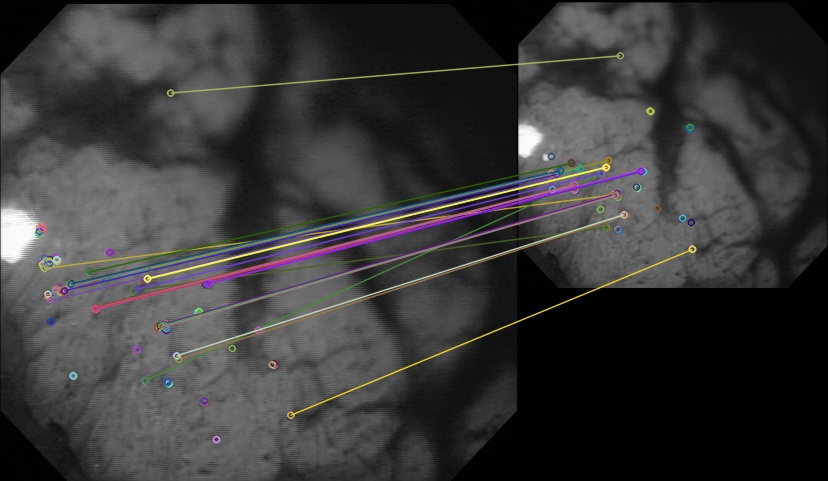
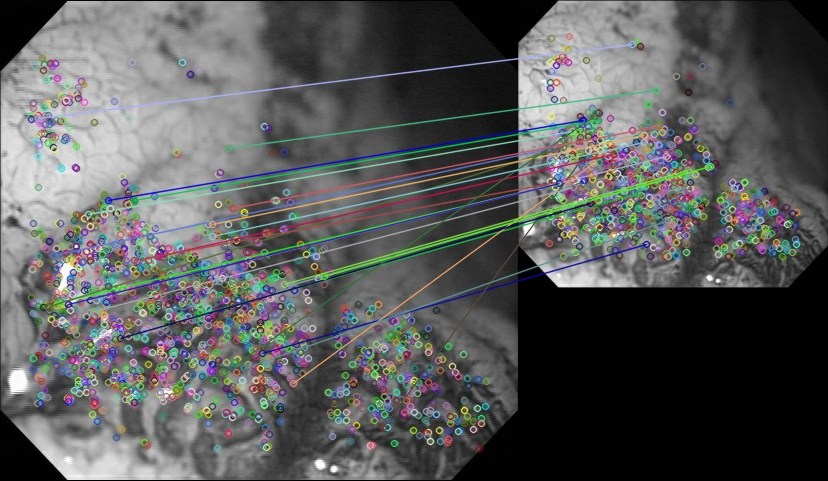
Update ORB
- ORB has rotational invariant
- ORB data remake with scaleFactor of 2

diff --git a/Data Preprocessing/orb.py b/Data Preprocessing/orb.py
@@ -112,17 +112,17 @@ if __name__ == '__main__':
     #             target_path=opt.target_sift_json_test_file,
     #             nfeatures = 1000)
 
-    # orb_extract(data_file_path=opt.ori_train_files, 
-    #             target_path=opt.target_sift_json_train_file,
-    #             nfeatures = 10000)
-    # orb_extract(data_file_path=opt.ori_test_files, 
-    #             target_path=opt.target_sift_json_test_file,
-    #             nfeatures = 10000)
+    orb_extract(data_file_path=opt.ori_train_files, 
+                target_path=opt.target_sift_json_train_file,
+                nfeatures = 10000, scaleFactor = 2)
+    orb_extract(data_file_path=opt.ori_test_files, 
+                target_path=opt.target_sift_json_test_file,
+                nfeatures = 10000, scaleFactor = 2)
     
-    img = cv2.imread(opt.ori_train_files[100])
-    gray = cv2.cvtColor(img,cv2.COLOR_BGR2GRAY)
-    orb = cv2.ORB_create(nfeatures = 10000, scaleFactor=2)
-    kp, des = orb.detectAndCompute(gray,None)
+    # img = cv2.imread(opt.ori_train_files[100])
+    # gray = cv2.cvtColor(img,cv2.COLOR_BGR2GRAY)
+    # orb = cv2.ORB_create(nfeatures = 10000, scaleFactor=2)
+    # kp, des = orb.detectAndCompute(gray,None)
 
     # scale_percent = 60 
     # width = int(img.shape[1] * scale_percent / 100)
@@ -135,7 +135,7 @@ if __name__ == '__main__':
     # resized_img_keys = cv2.drawKeypoints(gray_resized,gray_resized_kp,resized,flags=cv2.DRAW_MATCHES_FLAGS_DRAW_RICH_KEYPOINTS)
     # cv2.imwrite('Data Preprocessing/orb_invariant_check/resized_orb_keypoints.jpg',resized_img_keys)
 
-    bf = cv2.BFMatcher()
+    # bf = cv2.BFMatcher()
     # matches = bf.knnMatch(des,gray_resized_des,k=2)
 
     # good = []
@@ -182,16 +182,16 @@ if __name__ == '__main__':
     # rotate_match = cv2.drawMatchesKnn(gray,kp,rotated_gray,gray_rotate_kp,good,None,flags=cv2.DrawMatchesFlags_DEFAULT)
     # cv2.imwrite('Data Preprocessing/orb_invariant_check/rotatematch_orb.jpg',rotate_match)
 
-    gray_cropped_image = gray[50:320, 110:370]
+    # gray_cropped_image = gray[50:320, 110:370]
     # cv2.imshow("cropped", cropped_image)
     # cv2.waitKey(0)
-    crop_kp, crop_des = orb.detectAndCompute(gray_cropped_image, None)
+    # crop_kp, crop_des = orb.detectAndCompute(gray_cropped_image, None)
 
-    matches = bf.knnMatch(des,crop_des,k=2)
+    # matches = bf.knnMatch(des,crop_des,k=2)
 
-    good = []
-    for m,n in matches:
-        if m.distance < 0.75*n.distance:
-            good.append([m])
-    cropped_match = cv2.drawMatchesKnn(gray,kp,gray_cropped_image,crop_kp,good,None,flags=cv2.DrawMatchesFlags_DEFAULT)
-    cv2.imwrite('Data Preprocessing/orb_invariant_check/croppedmatch_orb.jpg',cropped_match)
+    # good = []
+    # for m,n in matches:
+    #     if m.distance < 0.75*n.distance:
+    #         good.append([m])
+    # cropped_match = cv2.drawMatchesKnn(gray,kp,gray_cropped_image,crop_kp,good,None,flags=cv2.DrawMatchesFlags_DEFAULT)
+    # cv2.imwrite('Data Preprocessing/orb_invariant_check/croppedmatch_orb.jpg',cropped_match)
